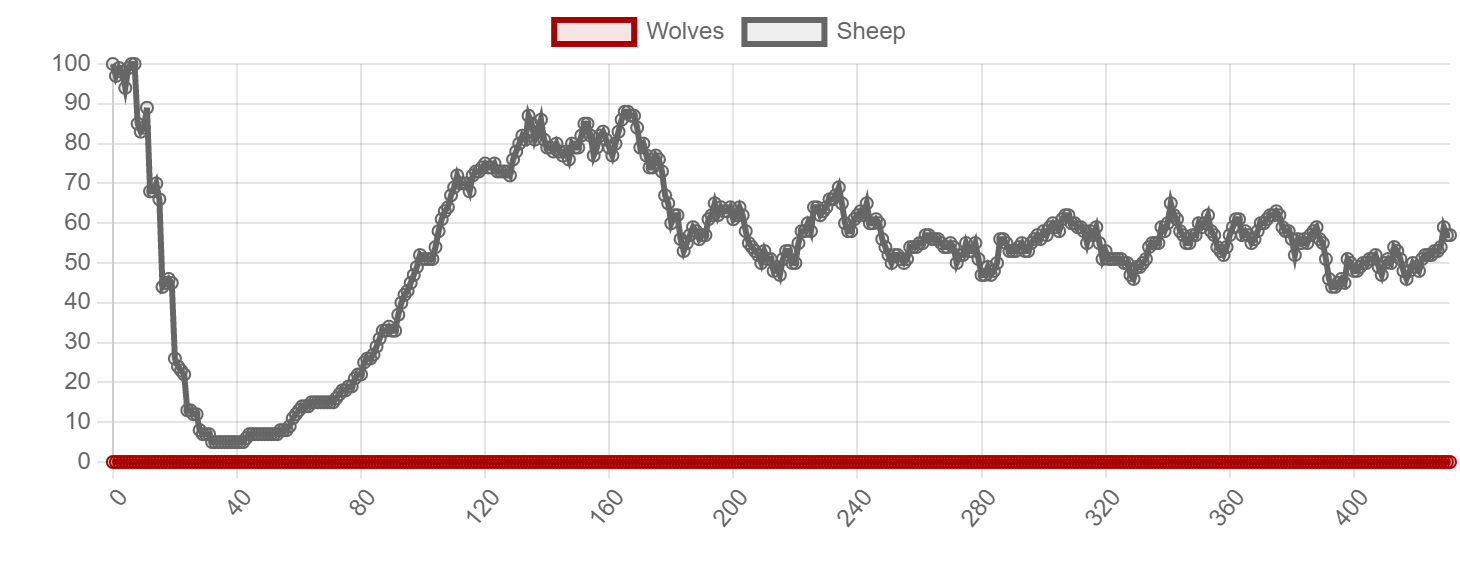
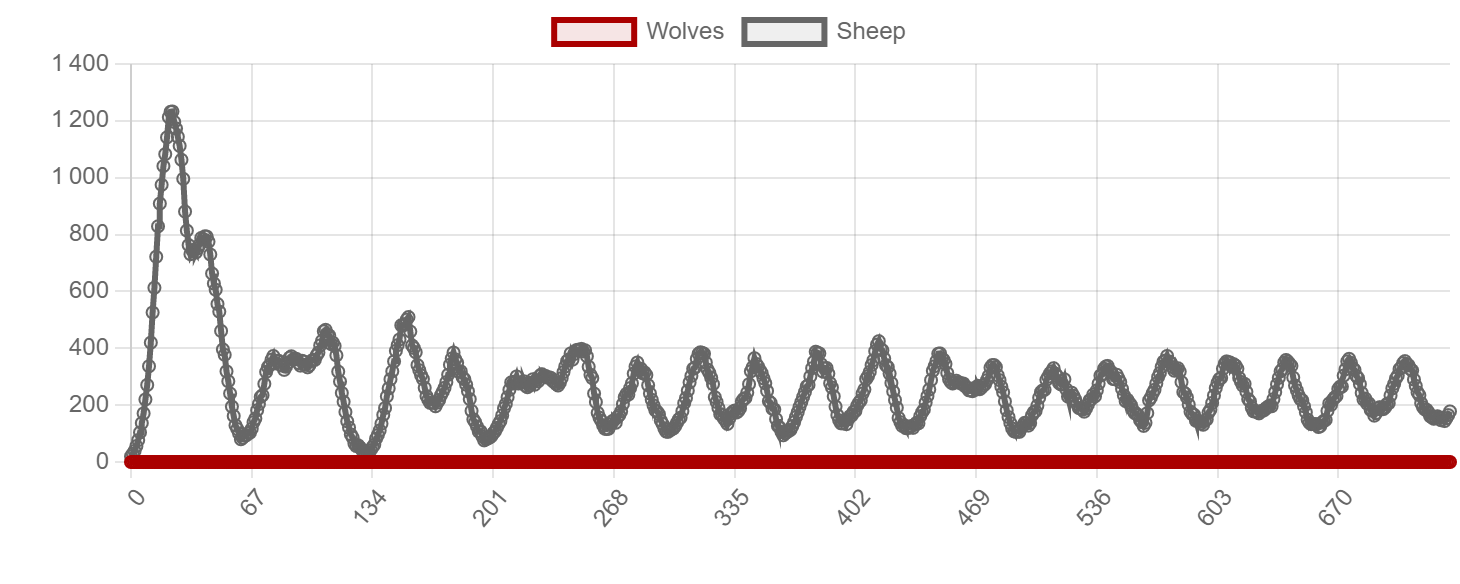
adding pictures of some experiments

diff --git a/prey_predator/server.py b/prey_predator/server.py
@@ -46,18 +46,18 @@ chart_element = ChartModule(
 
 model_params = {
     "grass": UserSettableParameter("checkbox", "Grass Enabled", True),
-    "grass_regrowth_time": UserSettableParameter("slider", "Grass Regrowth Time", 20, 1, 50),
-    "initial_sheep": UserSettableParameter("slider", "Initial Sheep Population", 100, 10, 300),
-    "sheep_reproduce": UserSettableParameter("slider", "Sheep Reproduction Rate", 0.04, 0.01, 1.0,
+    "grass_regrowth_time": UserSettableParameter("slider", "Grass Regrowth Time", 20, 1, 100),
+    "initial_sheep": UserSettableParameter("slider", "Initial Sheep Population", 50, 10, 200),
+    "sheep_reproduce": UserSettableParameter("slider", "Sheep Reproduction Rate", 0.05, 0.01, 1.0,
                                              0.01),
-    "initial_wolves": UserSettableParameter("slider", "Initial Wolf Population", 50, 0, 300),
-    "wolf_reproduce": UserSettableParameter("slider", "Wolf Reproduction Rate", 0.05, 0.01, 1.0,
+    "initial_wolves": UserSettableParameter("slider", "Initial Wolf Population", 10, 0, 300),
+    "wolf_reproduce": UserSettableParameter("slider", "Wolf Reproduction Rate", 0.02, 0.01, 1.0,
                                             0.01),
-    "wolf_gain_from_food": UserSettableParameter("slider", "Wolf Gain From Food Rate", 20, 1, 50),
-    "sheep_gain_from_food": UserSettableParameter("slider", "Sheep Gain From Food", 4, 1, 10),
+    "wolf_gain_from_food": UserSettableParameter("slider", "Wolf Gain From Food Rate", 5, 1, 50),
+    "sheep_gain_from_food": UserSettableParameter("slider", "Sheep Gain From Food", 3, 1, 10),
     
-    "init_energy_sheep": UserSettableParameter("slider", "Initial Energy of Sheep", 0, 1, 200),
-    "init_energy_wolves": UserSettableParameter("slider", "Initial Energy of Wolf", 0, 1, 200)
+    "init_energy_sheep": UserSettableParameter("slider", "Initial Energy of Sheep", 20, 1, 200),
+    "init_energy_wolves": UserSettableParameter("slider", "Initial Energy of Wolf", 10, 1, 200)
     
     
 }
